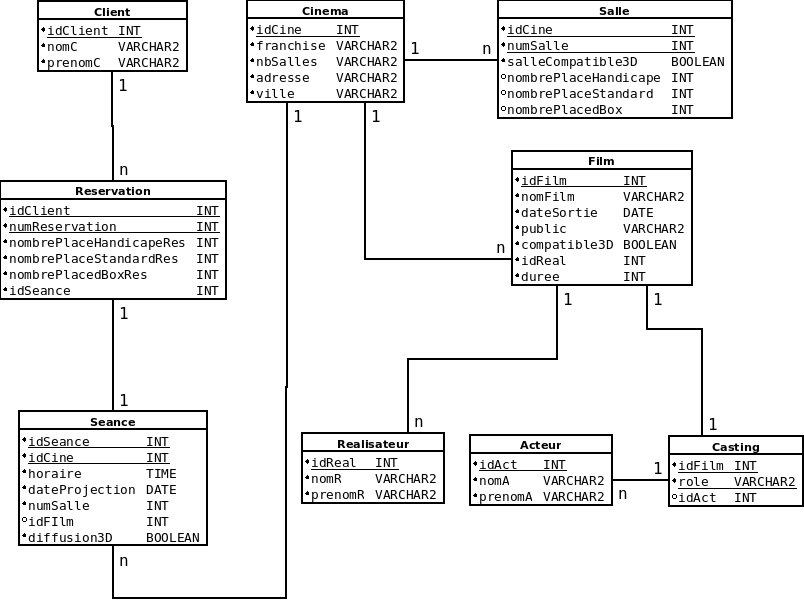
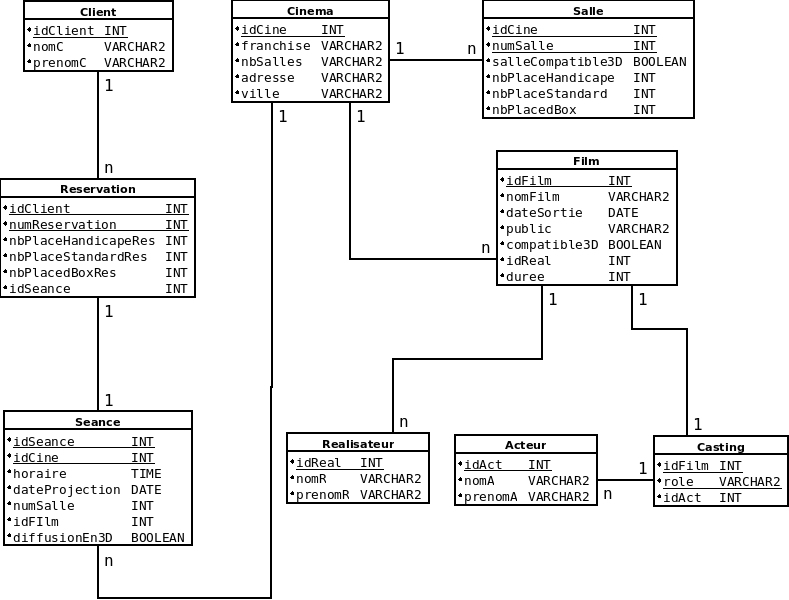
modif

diff --git a/note.tex b/note.tex
@@ -76,7 +76,7 @@
 		
 		\vspace{0.5cm}
 			
-		Vous trouverez en annexe la tables \ref{table_p1} contenant tous nos attributs ainsi que tous nos tuples. Celle-ci est en trois partie à cause de sa taille conséquente.
+		Vous trouverez en annexe la tables (\ref{table_p1}) contenant tous nos attributs ainsi que tous nos tuples. Celle-ci est en quatre partie à cause de sa taille conséquente.
 		
 		\vspace{0.5cm}						
 
@@ -96,6 +96,8 @@
 		- (10) idClient $\rightarrow$ nomC, prenomC \\
 		- (11) idClient, numReservation $\rightarrow$ nbPlaceStandardRes, nbPlaceHandicapeRes, nbPlaceDBoxRes, idSeance \\
 		- (12) idSeance, idCine $\rightarrow$ horaire, dateProjection, numSalle, idFilm, diffusionEn3D \\
+		
+		Avec les dfs ci-dessus, nous obtenons le graphe des dépendances en annexe (\ref{graphe_dependances}). De cela nous déterminons la clé suivante : \{idCine, idClient, numReservation, role\}.
 		
 	\section{Algo de Bernstein}
 	
@@ -326,8 +328,8 @@
 				\\		
 				\noindent Ainsi, hormis la suppression de dfs transitives, nos dfs ne changes pas. \\																
 				\\
-				On constate que l'on est bien en 1FN, ainsi qu'en 2FN. Cependant nous ne sommes pas en 3eme forme normal. En effet, avec les dfs ci-dessus et le graphe des dépendances en annexe \ref{graphe_dependances}, nous obtenons la clé suivante : \{idCine, idClient, numReservation, role\}. \\
-				Hors avec cette clé, nous avons des attributs non clés, qui déterminent d'autres attributs non clés. Par exemple, adresse et ville sont deux attributs non clé qui détermine franchise et nbSalle qui sont eux aussi non clés. \\
+				On constate que l'on est bien en 1FN, ainsi qu'en 2FN. Cependant nous ne sommes pas en 3eme forme normal. \\
+				Ainsi, nous avons des attributs non clés, qui déterminent d'autres attributs non clés. Par exemple, adresse et ville sont deux attributs non clé qui détermine franchise et nbSalle qui sont eux aussi non clés. \\
 				
 				\vspace{0.5cm}
 													
@@ -363,19 +365,28 @@
 
 				\vspace{0.5cm}
 											
-				R12 = \{idCine, idClient, numReservation, role\} \\ DF12 = \{\} \\
+				\noindent R12 = \{idCine, idClient, numReservation, role\} \\ DF12 = \{\} \\
 
 				\vspace{0.5cm}
 
 		\section{Algo de décomposition}
 
 			\vspace{0.5cm}
+			
+			Nous avons pris tous nos attributs puis on a suivi l'algorithme de décomposition c'est à dire que en fonction de nos attributs et de nos dépendances fonctionnelles on a pris une dépendance, on a fait une relation en fonction de cette dépendance puis on a retiré nos attributs non clés au reste de la relation originale. Ensuite on a recommencé jusqu'à arriver à une partie qui ne contient que des clés et plus de df.\\
+			\indent On a commencé par les df qui n'avaient que un attribut à gauche puis on a finit par celles qui avaient plusieurs attributs à gauche.
+		
+			
 
 
 
 			\vspace{0.5cm}
 
 		\section{Schéma de nos tables}
+		
+		Pour le diagramme nous nous sommes basés sur le résultat de l'algorithme de décomposition qui nous a fournit des tables équivalentes aux 11 relations R1..R11. Cependant nous avons fusionnés deux fois deux tables : la table R1 et R21 car ça nous paraît plus logique d'avoir pour chaque adresse, ville, franchise et nbsalles un seul idCine qui en fait détermine un unique cinéma.\\
+		\indent Cette table devient donc la table Cinéma ce qui donne plus de sens à notre modèle. Nous avons aussi fusionné R51 et R61 pour en faire une seule et même table Film, pour les mêmes raisons.\\
+		\indent Pour finir on a renommé toutes les autres tables pour leur donner un nom qui nous parle plus : R31 est devenue Réalisateur, R41 est devenue Acteur, R71 est devenue Client, R81 est devenue Salle, R91 est devenue Casting, R101 est devenue Seance, 111 est devenue Réservation.
 
 				\begin{figure}[!h]		
 					\centering
@@ -393,18 +404,18 @@
 
 			\newpage
 
-			\section{Annèxe}
+			\section{Annexe}
 							
 				\begin{figure}[!h]		
 					\centering
-					\rotatebox{90}{\includegraphics[height=7cm]{picture/table_p1_rogne.png}}
+					\rotatebox{90}{\includegraphics[height=8cm]{picture/table_p1_rogne.png}}
 					\caption{Première partie de notre table contenant tous les attributs et quelques tuples}
 					\label{table_p1}	
 				\end{figure}			
 
 				\begin{figure}[!h]
 					\centering						
-					\rotatebox{90}{\includegraphics[height=9cm]{picture/table_p2_rogne.png}}
+					\rotatebox{90}{\includegraphics[height=8cm]{picture/table_p2_rogne.png}}
 					\caption{Deuxième partie de notre table contenant tous les attributs et quelques tuples}
 					\label{table_p2}	
 				\end{figure}			
@@ -416,6 +427,13 @@
 					\label{table_p3}	
 				\end{figure}	
 
+				\begin{figure}[!h]
+					\centering						
+					\rotatebox{90}{\includegraphics[height=10cm]{picture/table_p4_rogne.png}}
+					\caption{Quatrième partie de notre table contenant tous les attributs et quelques tuples}
+					\label{table_p4}	
+				\end{figure}
+				
 				\begin{figure}[!h]
 					\centering						
 					\rotatebox{90}{\includegraphics[height=8cm]{picture/graphe_dependances.png}}
